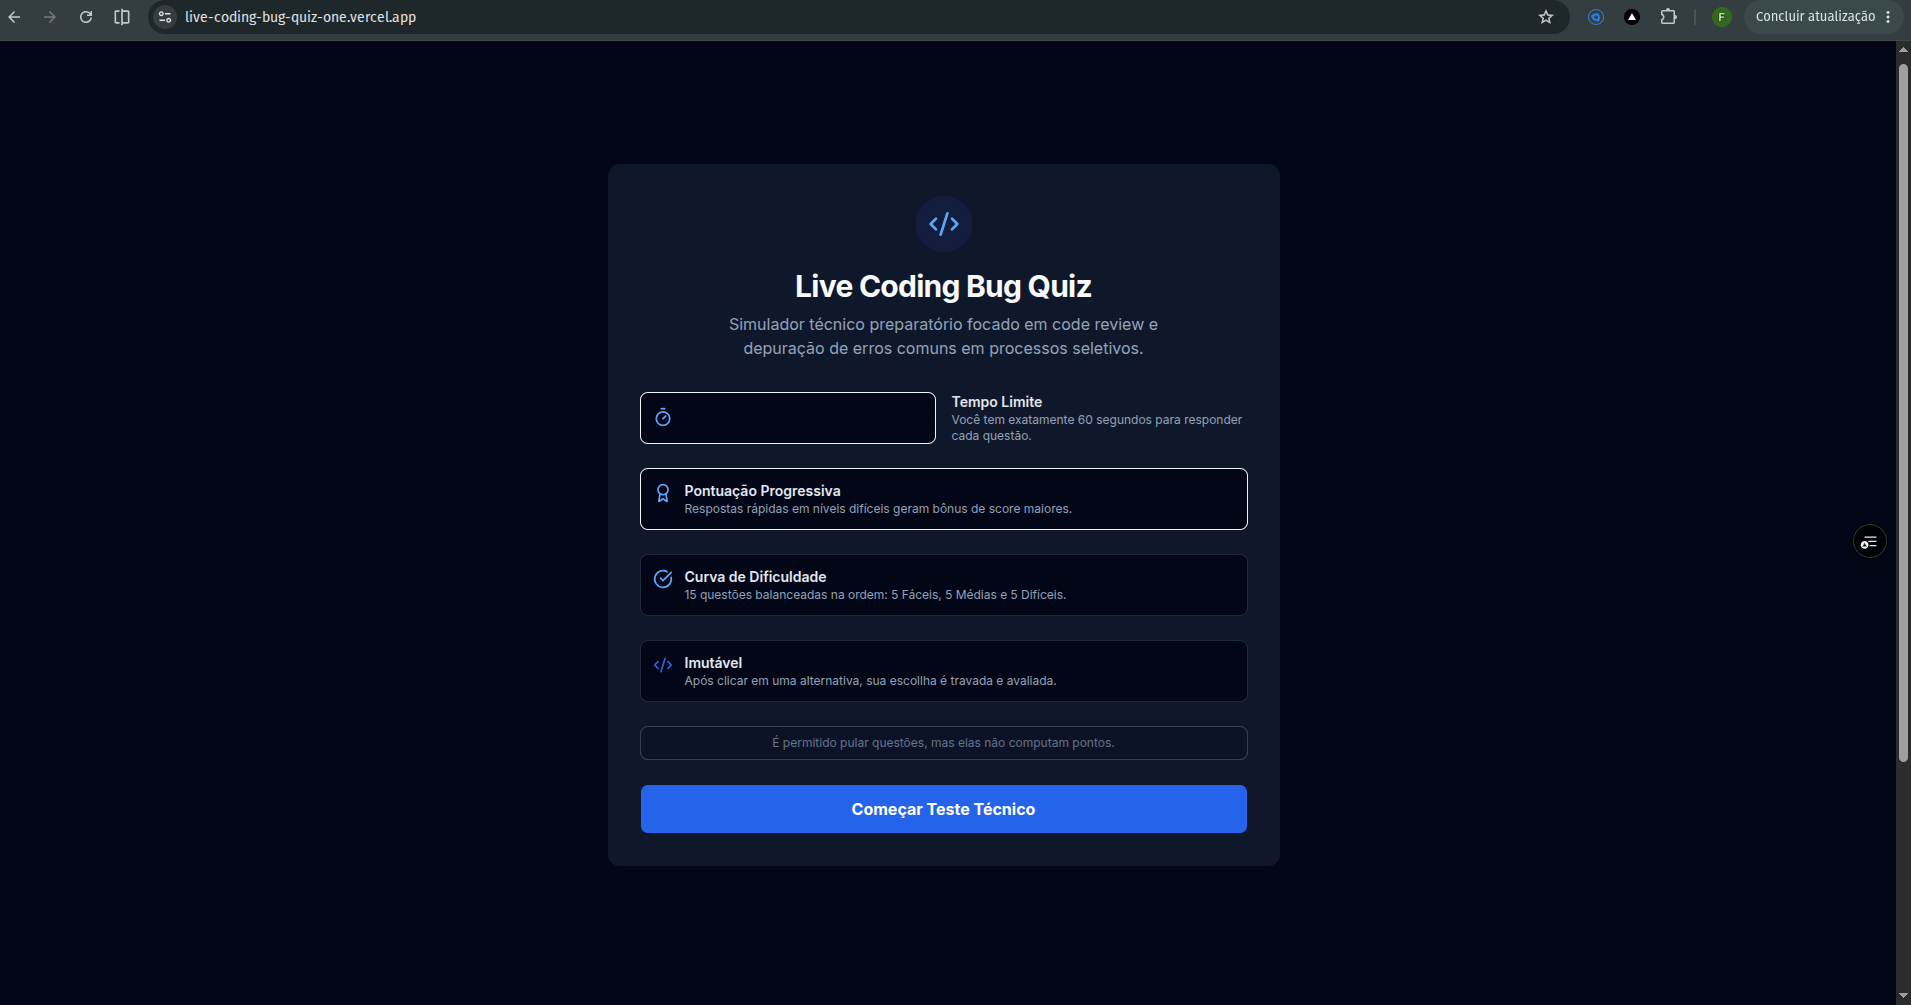
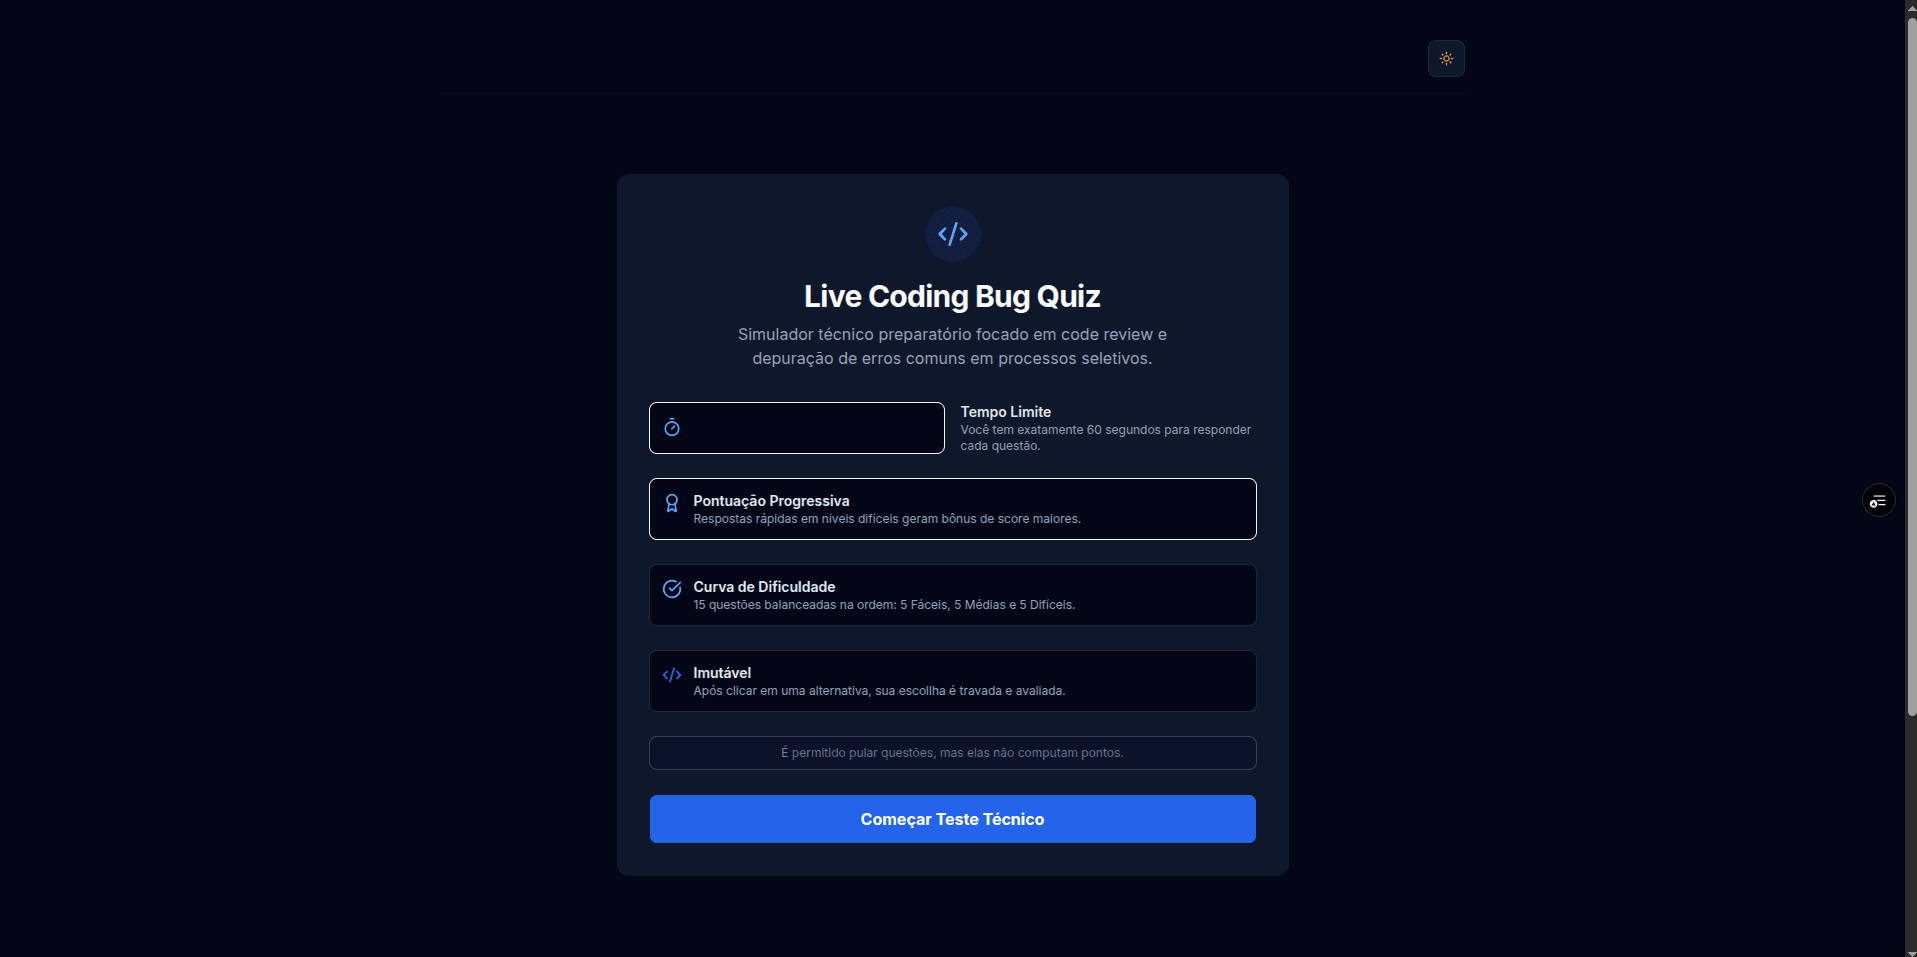
docs(media): optimize shared asset volumetrics and append cache-busting tokens to README closes #36

Changed region(s): [[0.3087, 0.2727, 0.6792, 0.8788], [0.0, 0.0, 1.0, 1.0]]

diff --git a/README.md b/README.md
@@ -31,7 +31,7 @@ Como profissional neurodivergente **(TEA)**, este projeto traduz hiperfoco, lóg
 ### 🎥 Demonstração Visual (Project Showcase)
 
 <div align="center">
-  <img src="public/projects/portfolio-hero.png" alt="Portfolio Preview" width="100%" style="border-radius: 12px; border: 1px solid #1e293b;" />
+  <img src="public/portfolio-hero.png?v=2" alt="Portfolio Preview" width="100%" style="border-radius: 12px; border: 1px solid #1e293b;" />
 </div>
 
 ### 🛠 Diferenciais Técnicos e Arquitetura
@@ -61,6 +61,12 @@ As a neurodivergent professional **(ASD)**, this project converts hyperfocus, sh
 ### 🔗 Production Link
 
 🚀 Access the live running application: **[View Portfolio on Vercel](https://vercel.app)** _(Temporary link - Adjust after deployment)_
+
+### 🎥 Visual Demonstration (Project Showcase)
+
+<div align="center">
+  <img src="public/portfolio-hero.png?v=2" alt="Preview Portfolio" width="100%" style="border-radius: 12px; border: 1px solid #1e293b;" />
+</div>
 
 ### 🛠 Technical Highlights & Architecture
 
